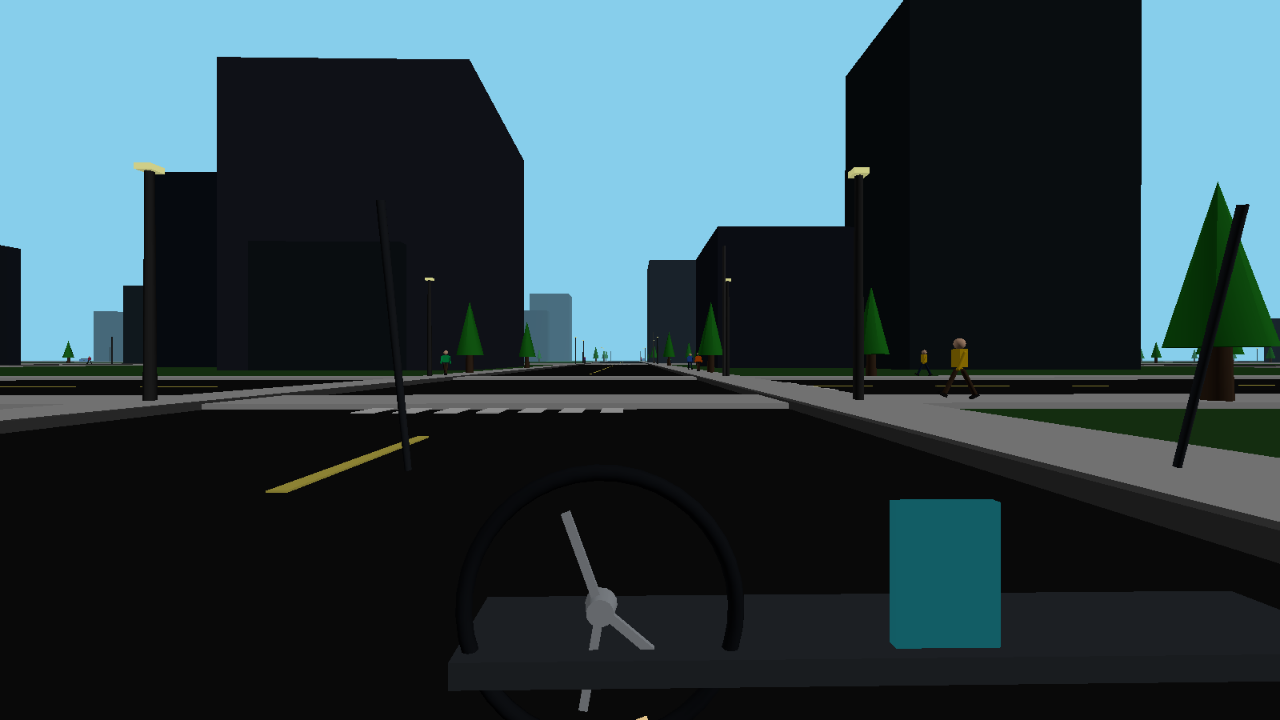
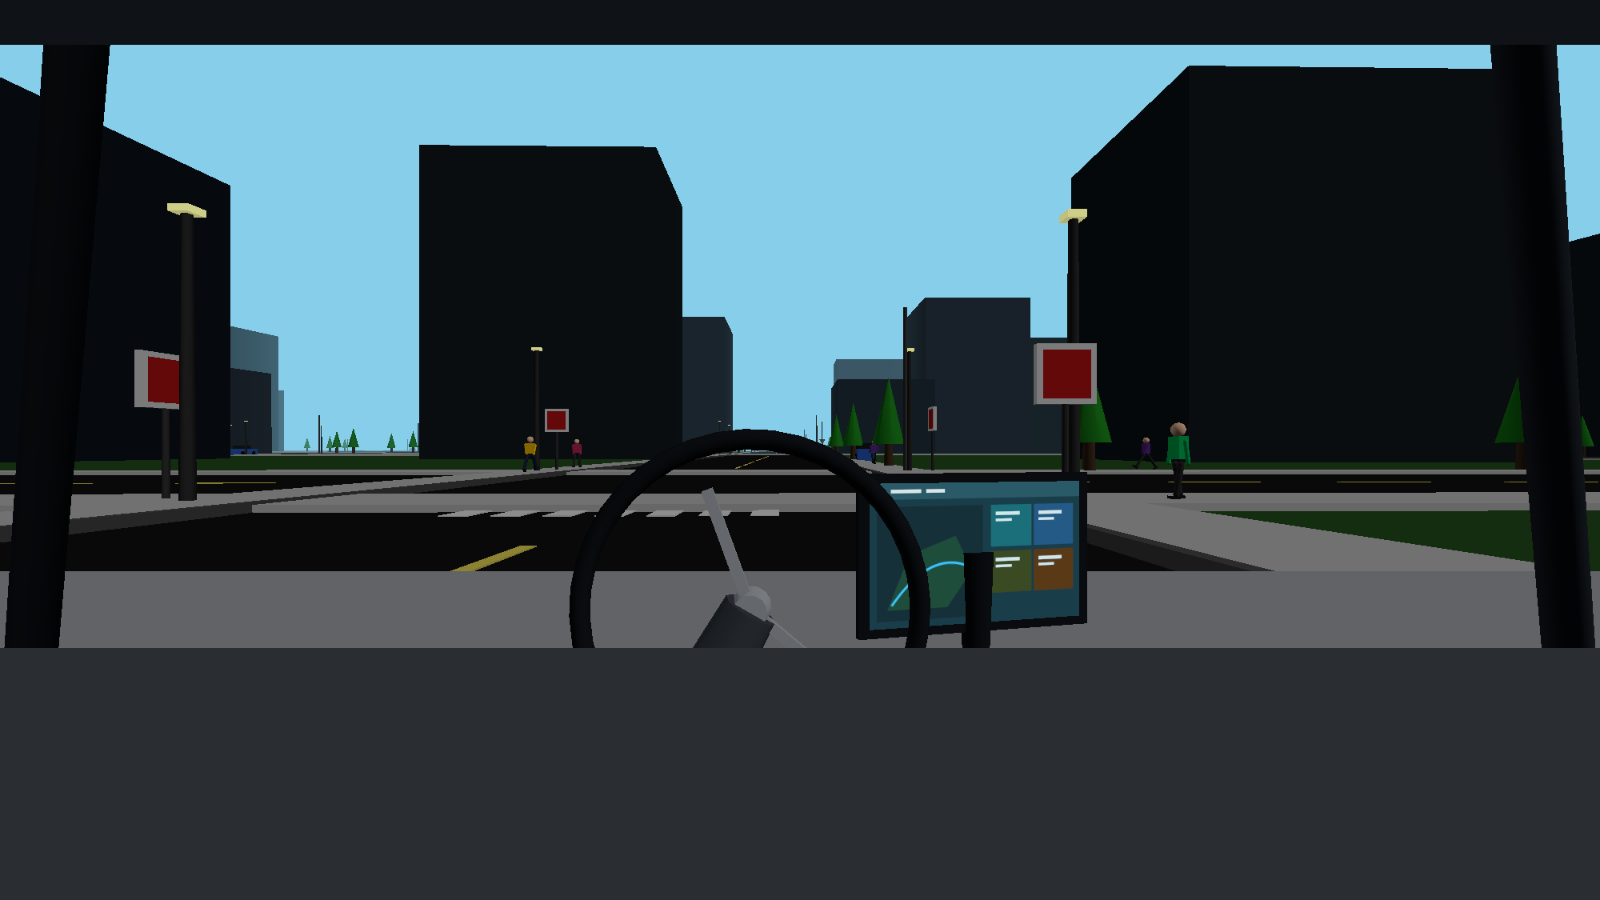
Recapture cabin3 shots with a connected cockpit and dark glass.
The dash spans the frame, A-pillars meet the header, the 15" tablet shows a lit UI, and sedan-sports windows stay dark while paint stays silver.

diff --git a/game/src/sim/egoMesh.ts b/game/src/sim/egoMesh.ts
@@ -165,10 +165,89 @@ function silverizePaintCells(tex: THREE.Texture): THREE.Texture {
   }
 }
 
+function isGlassTriangle(
+  ax: number, ay: number, az: number,
+  bx: number, by: number, bz: number,
+  cx: number, cy: number, cz: number,
+  nax: number, nay: number, naz: number,
+  nbx: number, nby: number, nbz: number,
+  ncx: number, ncy: number, ncz: number,
+): boolean {
+  const y = (ay + by + cy) / 3;
+  // Kenney-local: +Z forward, +X left, +Y up. Keep the painted roof.
+  if (y < 0.52) return false;
+  const nx = (nax + nbx + ncx) / 3;
+  const ny = (nay + nby + ncy) / 3;
+  const nz = (naz + nbz + ncz) / 3;
+  if (nz > 0.38 && y < 0.98) return true;
+  if (nz < -0.38 && y < 0.98) return true;
+  if (Math.abs(nx) > 0.58 && y < 0.8 && ny < 0.35) return true;
+  return false;
+}
+
+function splitBodyGlass(root: THREE.Object3D): void {
+  const glassMat = new THREE.MeshLambertMaterial({ color: 0x1a1f26 });
+  root.traverse((obj) => {
+    const mesh = obj as THREE.Mesh;
+    if (!mesh.isMesh || !/^body$/i.test(mesh.name) || !mesh.parent) return;
+    const geo = mesh.geometry;
+    const pos = geo.getAttribute('position');
+    const nrm = geo.getAttribute('normal');
+    const uv = geo.getAttribute('uv');
+    if (!pos || !nrm) return;
+    const glassPos: number[] = [];
+    const bodyPos: number[] = [];
+    const bodyNrm: number[] = [];
+    const bodyUv: number[] = [];
+    const glassNrm: number[] = [];
+    const push = (dst: number[], attr: THREE.BufferAttribute, i: number, n: number) => {
+      for (let k = 0; k < n; k += 1) dst.push(attr.getComponent(i, k));
+    };
+    const visit = (a: number, b: number, c: number) => {
+      const glass = isGlassTriangle(
+        pos.getX(a), pos.getY(a), pos.getZ(a),
+        pos.getX(b), pos.getY(b), pos.getZ(b),
+        pos.getX(c), pos.getY(c), pos.getZ(c),
+        nrm.getX(a), nrm.getY(a), nrm.getZ(a),
+        nrm.getX(b), nrm.getY(b), nrm.getZ(b),
+        nrm.getX(c), nrm.getY(c), nrm.getZ(c),
+      );
+      const pDst = glass ? glassPos : bodyPos;
+      const nDst = glass ? glassNrm : bodyNrm;
+      for (const i of [a, b, c]) {
+        push(pDst, pos, i, 3);
+        push(nDst, nrm, i, 3);
+        if (!glass && uv) push(bodyUv, uv, i, 2);
+      }
+    };
+    if (geo.index) {
+      const idx = geo.index;
+      for (let i = 0; i < idx.count; i += 3) visit(idx.getX(i), idx.getX(i + 1), idx.getX(i + 2));
+    } else {
+      for (let i = 0; i < pos.count; i += 3) visit(i, i + 1, i + 2);
+    }
+    if (glassPos.length === 0 || bodyPos.length === 0) return;
+    const bodyGeo = new THREE.BufferGeometry();
+    bodyGeo.setAttribute('position', new THREE.Float32BufferAttribute(bodyPos, 3));
+    bodyGeo.setAttribute('normal', new THREE.Float32BufferAttribute(bodyNrm, 3));
+    if (bodyUv.length) bodyGeo.setAttribute('uv', new THREE.Float32BufferAttribute(bodyUv, 2));
+    mesh.geometry = bodyGeo;
+    const glassGeo = new THREE.BufferGeometry();
+    glassGeo.setAttribute('position', new THREE.Float32BufferAttribute(glassPos, 3));
+    glassGeo.setAttribute('normal', new THREE.Float32BufferAttribute(glassNrm, 3));
+    const glass = new THREE.Mesh(glassGeo, glassMat);
+    glass.name = 'glass';
+    glass.position.copy(mesh.position);
+    glass.quaternion.copy(mesh.quaternion);
+    glass.scale.copy(mesh.scale);
+    mesh.parent.add(glass);
+  });
+}
+
 function paintSilver(root: THREE.Object3D): void {
   root.traverse((obj) => {
     const mesh = obj as THREE.Mesh;
-    if (!mesh.isMesh) return;
+    if (!mesh.isMesh || /^glass$/i.test(mesh.name)) return;
     const src = mesh.material;
     const list = Array.isArray(src) ? src : [src];
     const next = list.map((mat) => {
@@ -302,9 +381,9 @@ function makeScreenFaceTexture(): THREE.Texture | null {
     canvas.height = 320;
     const ctx = canvas.getContext('2d');
     if (!ctx) return null;
-    ctx.fillStyle = '#0c1418';
+    ctx.fillStyle = '#1a3d4a';
     ctx.fillRect(0, 0, 512, 320);
-    ctx.fillStyle = '#152028';
+    ctx.fillStyle = '#2a5a68';
     ctx.fillRect(0, 0, 512, 36);
     ctx.fillStyle = '#8fd4e2';
     ctx.beginPath();
@@ -390,18 +469,15 @@ function buildCockpit(): { group: THREE.Group; steerWheel: THREE.Group } {
   const dashTop = COCKPIT.dashTopNdc;
   const cam = cabinCamera(COCKPIT.fovDeg);
 
-  const dashMat = new THREE.MeshLambertMaterial({ color: 0x3a414a, side: THREE.DoubleSide });
+  const dashMat = new THREE.MeshLambertMaterial({ color: 0x5c646e, side: THREE.DoubleSide });
   const hoodMat = new THREE.MeshLambertMaterial({ color: 0xc5cad1, side: THREE.DoubleSide });
-  const pillarMat = new THREE.MeshLambertMaterial({ color: 0x23282e, side: THREE.DoubleSide });
-  const columnMat = new THREE.MeshLambertMaterial({ color: 0x2f353c });
-  const bezelMat = new THREE.MeshLambertMaterial({ color: 0x111318 });
+  const pillarMat = new THREE.MeshLambertMaterial({ color: 0x2a3038, side: THREE.DoubleSide });
+  const columnMat = new THREE.MeshLambertMaterial({ color: 0x4a515a });
+  const bezelMat = new THREE.MeshLambertMaterial({ color: 0x1b1f24 });
   const screenMap = makeScreenFaceTexture();
-  const screenMat = new THREE.MeshLambertMaterial({
-    color: screenMap ? 0xffffff : 0x0c1418,
-    map: screenMap,
-    emissive: 0x1a4a58,
-    emissiveIntensity: 0.45,
-  });
+  const screenMat = screenMap
+    ? new THREE.MeshBasicMaterial({ color: 0xffffff, map: screenMap })
+    : new THREE.MeshBasicMaterial({ color: 0x1a6f7a });
 
   // Height is framed for the 70° hood view (bottom ~28%). Extra-wide X also fills the 95° still.
   const dash = new THREE.Mesh(frustumSlab(cam, -1.7, 1.7, -1.35, dashTop, 0.24, 0.98), dashMat);
@@ -425,14 +501,16 @@ function buildCockpit(): { group: THREE.Group; steerWheel: THREE.Group } {
 
   const screen = new THREE.Group();
   screen.name = 'centre-screen';
-  const bezel = new THREE.Mesh(new THREE.BoxGeometry(0.332, 0.208, 0.012), bezelMat);
-  const face = new THREE.Mesh(new THREE.PlaneGeometry(0.304, 0.184), screenMat);
-  face.position.z = -0.0068;
+  // Thin in X so the lit face points back at the driver (camera looks +X).
+  const bezel = new THREE.Mesh(new THREE.BoxGeometry(0.01, 0.176, 0.28), bezelMat);
+  const face = new THREE.Mesh(new THREE.PlaneGeometry(0.256, 0.156), screenMat);
+  face.rotation.y = -Math.PI / 2;
+  face.position.x = -0.006;
   screen.add(bezel, face);
   const sit = rayPoint(cam, 0.22, dashTop, 0.72);
   const sitInDash = rayPoint(cam, 0.22, dashTop - 0.08, 0.72);
   screen.position.set(sit.x, sit.y + 0.108, sit.z);
-  screen.lookAt(COCKPIT.eye.x, COCKPIT.eye.y - 0.05, COCKPIT.eye.z);
+  screen.rotation.y = 0.22;
   addStrut(group, sitInDash, screen.position.clone(), 0.014, 0.02, bezelMat, 'screen-mount');
   group.add(screen);
 
@@ -548,6 +626,7 @@ export function assembleEgoVisual(source: THREE.Object3D): EgoVisual {
     wheels.push({ pivot, mesh: tire, front: spec.front, spinAxis: 'x' });
   }
 
+  splitBodyGlass(sedan);
   paintSilver(sedan);
   sedan.position.y = ROAD_SURFACE_Y - AXLE_HEIGHT;
   setLayerDeep(sedan, LAYER_EXTERIOR);
